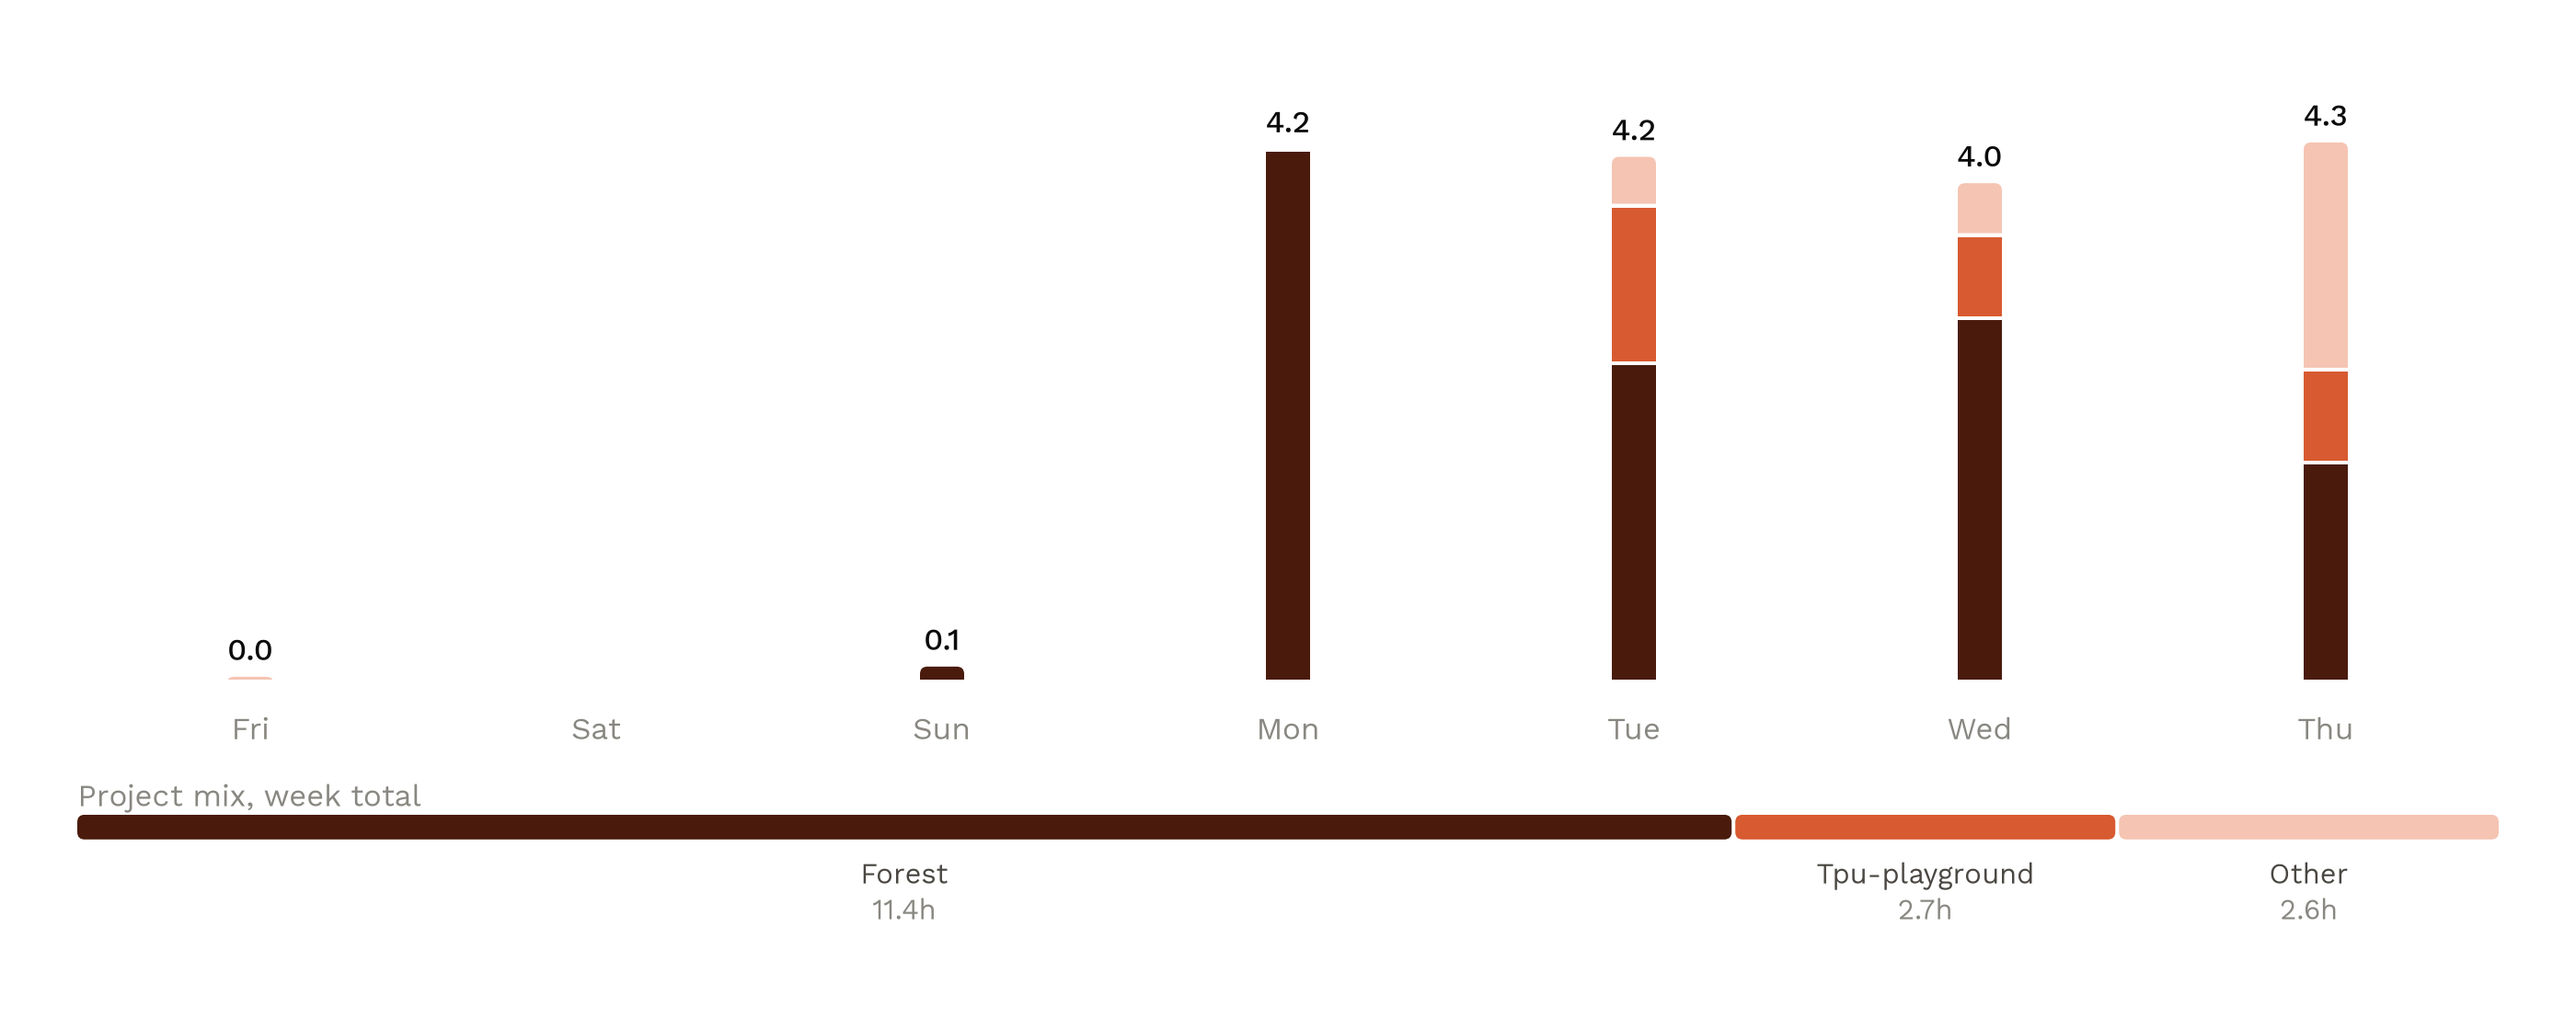
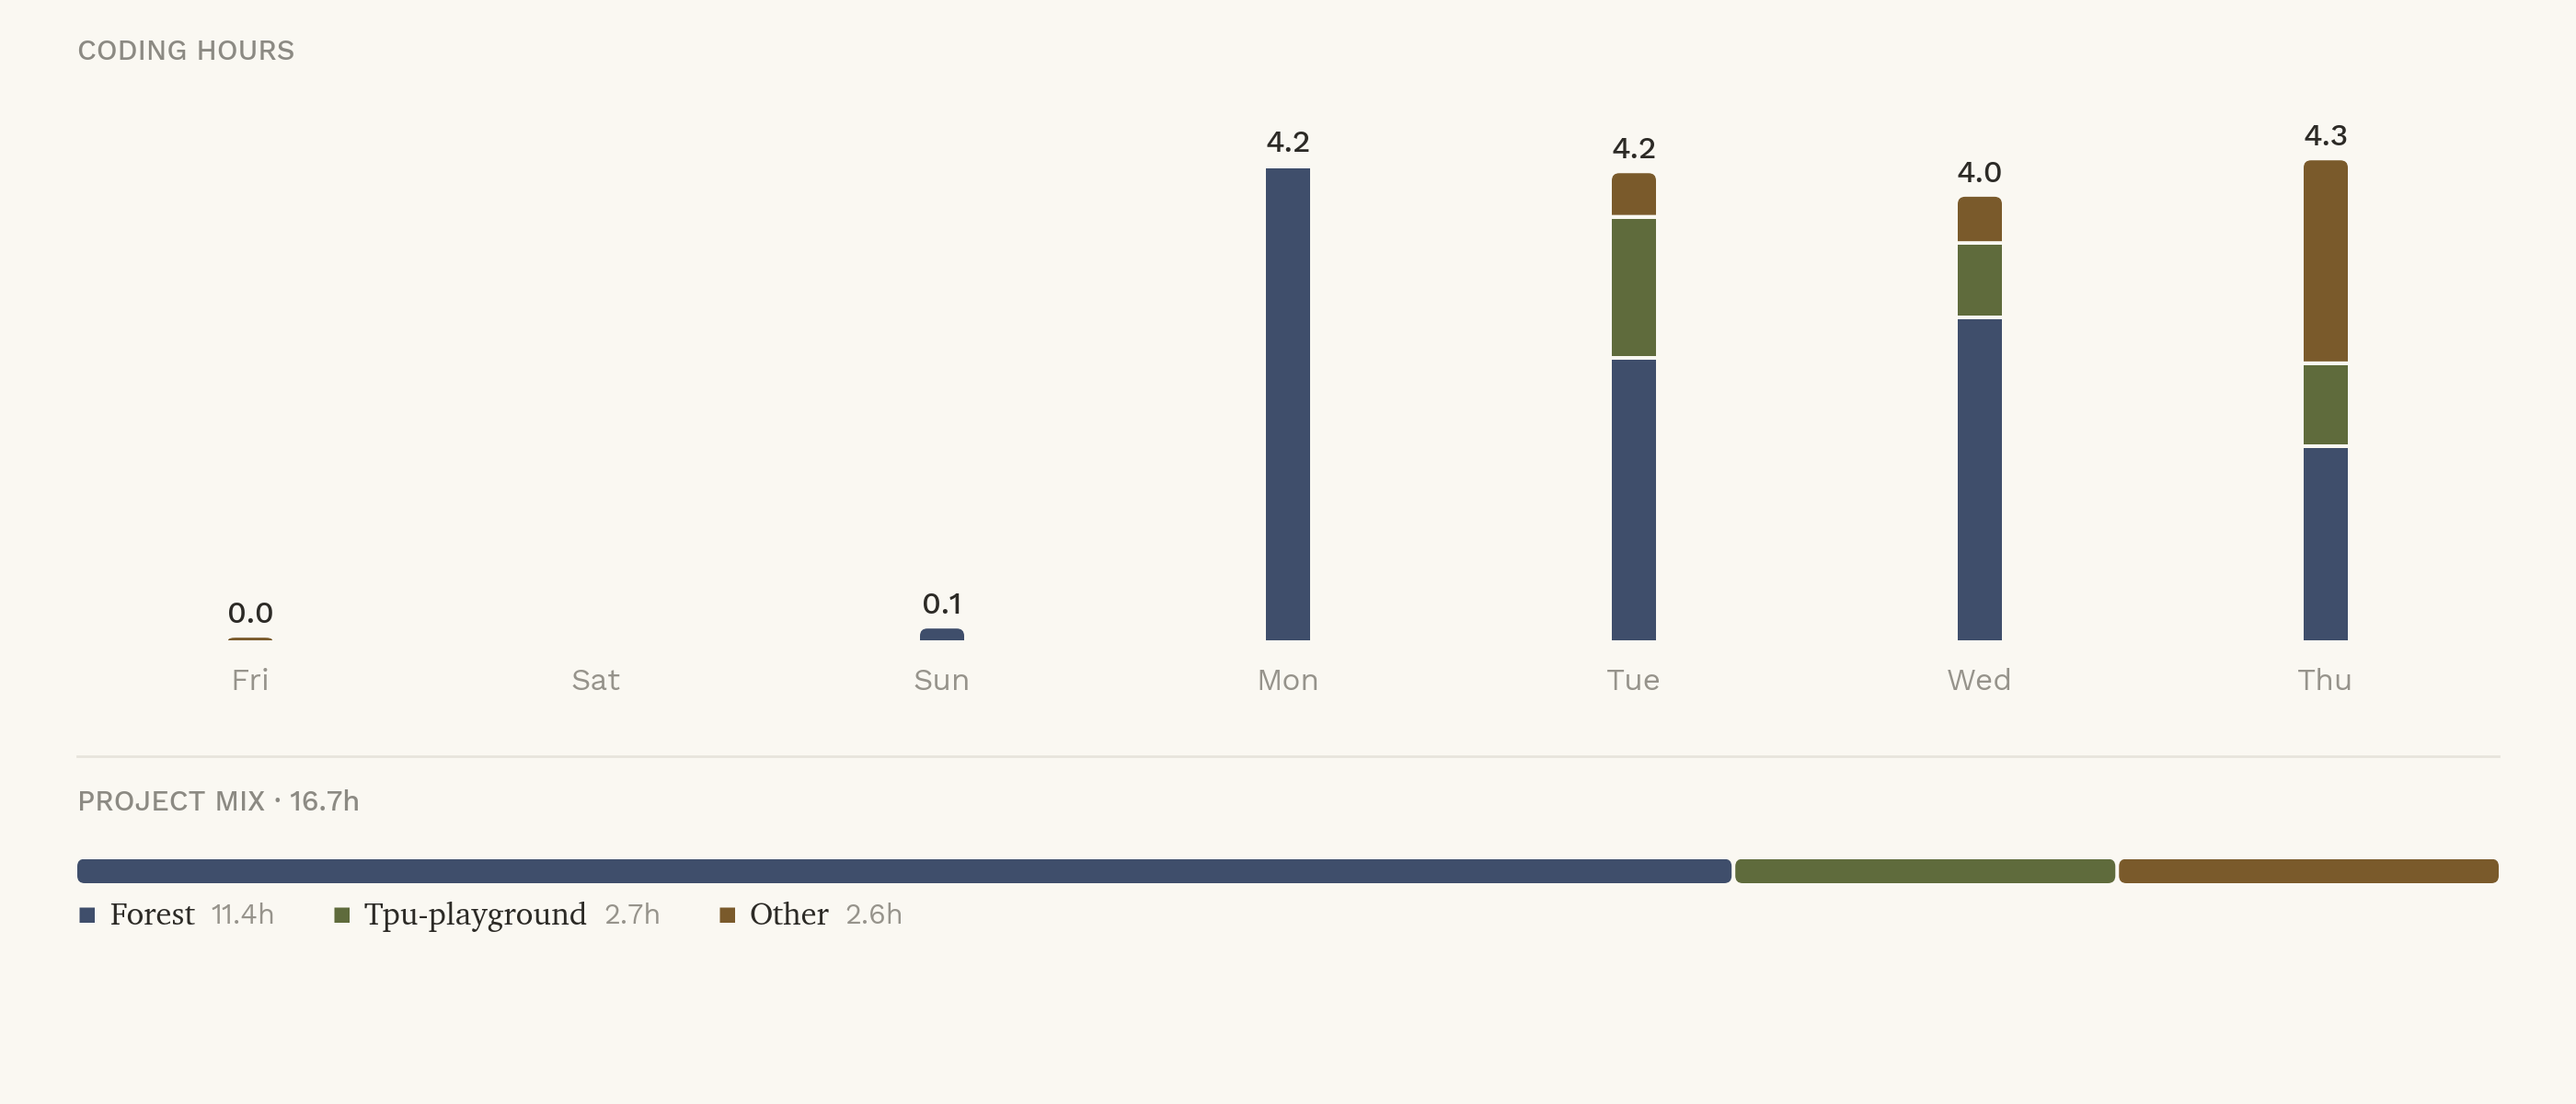
Regenerate 2026-W32 figures in the vellum theme
Missed in the previous pass. W32's review week ends Thu 2026-08-06;
re-render waka/arbtt/running to match the retheme.

diff --git a/notes-log.md b/notes-log.md
@@ -576,6 +576,7 @@ This file is generated by `scripts/registry` (run automatically by
 - 2026-08-03 · `note` · [QTSW](trees/evergreen/QTSW.tree) — MESI in Murphi
 - 2026-08-05 · `note` · [KZR4](trees/evergreen/KZR4.tree) — [Scaling Book](scaling-book): Exercises
 - 2026-08-05 · `note` · [LEM3](trees/evergreen/LEM3.tree) — Kellen's favorite quotes
+- 2026-08-06 · `note` · [RCNT](trees/evergreen/RCNT.tree) — What I've been thinking about
 - 2026-08-06 · `note` · [TAAK](trees/evergreen/TAAK.tree) — Notebook: [[scaling-book]]
 - 2026-08-07 · `blog` · [1PZ2](trees/evergreen/1PZ2.tree) — Unpacking [Ragged Paged Attention](jiangRaggedPagedAttention2026)
 - 2026-08-07 · `note` · [NR79](trees/evergreen/NR79.tree) — Lifecycle of a JAX program
@@ -587,5 +588,4 @@ This file is generated by `scripts/registry` (run automatically by
 - 2026-08-11 · `def` · [GA8T](trees/evergreen/GA8T.tree) — TPU memory hierarchy
 - 2026-08-11 · `def` · [IO2I](trees/evergreen/IO2I.tree) — TPU memory hierarchy
 - 2026-08-11 · `def` · [SXP6](trees/evergreen/SXP6.tree) — Systolic array
-- 2026-08-12 · `note` · [RCNT](trees/evergreen/RCNT.tree) — What I've been thinking about
 - 2026-08-12 · `def` · [SJL3](trees/evergreen/SJL3.tree) — Semaphore
